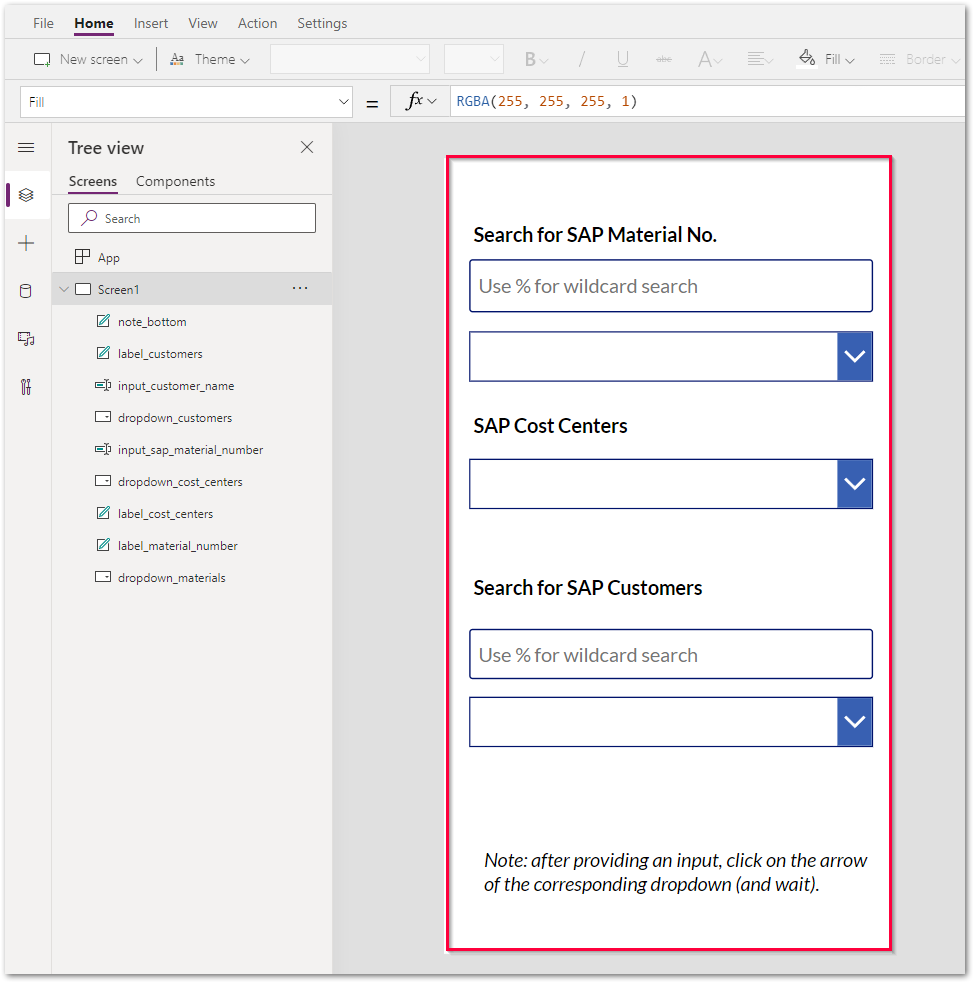
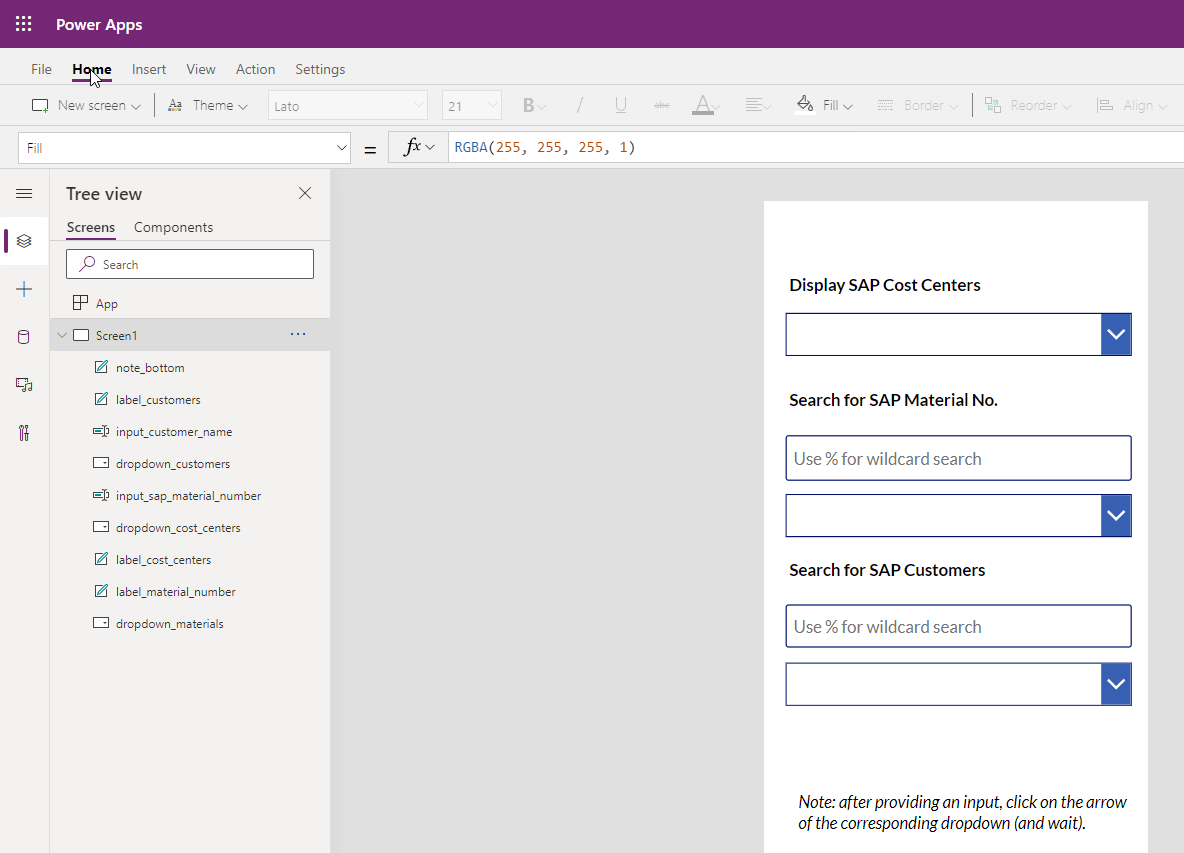
Power Apps article yunIO (probably final) review CT

diff --git a/content/_yunio/populating-dropdown-boxes in-power-apps-with-sap-data.md b/content/_yunio/populating-dropdown-boxes in-power-apps-with-sap-data.md
@@ -30,6 +30,8 @@ image
 Set the input parameter NAME1 (Customer's Name) to *Supplied by caller*.
 Select all fields in the table *CUSTOMER_T* for the output.<br>
 image
+{: .box-note }
+**Note:**  In PowerApps every data source is limited to 500 items. Therefore, it is recommended to pre-filter requests to a manageable amount of data and a row limit is set in this example. 
 2. Download the service definition (![download-file](/img/contents/yunio/download.png) icon) of all 3 services.<br>
 ![yunio-Services-Function-Download](/img/contents/yunio/yunio-run-services-function-download.png){:class="img-responsive" width="800px"}
 
@@ -57,12 +59,12 @@ After a connector is successfully tested, it can be used as a data source in Pow
 3. For the first and the last dropdown field add additional Text input boxes (input_sap_material_number and input_customers) for search/filter values. <br> 
 ![yunio-powerapps-model-driven-app](/img/contents/yunio/yunio_powerapps_modeldriven_app.png){:class="img-responsive"} 
 4. Add the previously created yunIO custom connectors containing the MAKT service, the CSKT service and the CustomerGet service. <br>
-![yunio-powerapps-add-datasource](/img/contents/yunio/yunio_powerapps_datasource_readmakt.png){:class="img-responsive" width="800px"} 
+![yunio-powerapps-add-datasources](/img/contents/yunio/C:\Source\kb.theobald-software.github.io\img\contents\yunio\yunio_powerapps_yunio_datasources.png){:class="img-responsive" width="800px"} 
 5. Customize the fields for populating the dropdown boxes with SAP values, see the examples below. 
 
 #### Example 1: Populating a Dropdown Box with SAP Table Data without a Search Filter
 
-The first example queries SAP table data for table CSKT (Cost Center Texts). The dropdown box is populated without any filtering.
+The first example queries SAP table data for table CSKT (Cost Center Texts). The dropdown box is populated without any search filtering.
 1. Use the following code in the *OnSelect* box of the dropdown control in the advanced settings: 
 ````
 ClearCollect(SAPData,yunIO_1.ReadCSKT());
@@ -70,14 +72,18 @@ ClearCollect(SAPData,yunIO_1.ReadCSKT());
 With *ClearCollect* a collection with a name of your choice (here *SAPData*) is filled with data from the external data source.
 The results are displayed when unfolding the dropdown box.    
 2. Use the *Concatenate* function in field Items to concatenate and display more than one table column in the dropdown box. 
-Under Value *Result* should be selectable, thats the result of the SAP table query stored in the collection variable *SAPData*.
+In the *Value* box *Result* is displayed, thats the result of the SAP table query stored in the collection variable *SAPData*.
 In this example the fields KOSTL (cost center) and LTEXT (cost center description) are concatenated and displayed, separated by a space. Other column separators are possible.
 ````
 Concatenate(SAPData.KOSTL," ",SAPData.LTEXT)
 ```
+![yunio-powerapps-display-cost-centers](/img/contents/yunio/C:\Source\kb.theobald-software.github.io\img\contents\yunio\yunio_powerapps_display_costcenters.png){:class="img-responsive" width="800px"} 
+
+{: .box-tip }
+**Tip:** You can display a quick preview in the Power Apps studio by clicking Alt and the dropdown box.  
 
 #### Example 2: Populating a Dropdown Box with SAP Table Data using a Search Filter
-The first example queries SAP table data for table MAKT (Material Decriptions). 
+The second example queries SAP table data for table MAKT (Material Decriptions). 
 The search field uses a Where Clause to filter the SAP table. 
 
 1. Use the following code in the *OnSelect* box of the dropdown control in the advanced settings:
@@ -87,14 +93,17 @@ ClearCollect(SAPResult,yunIO.MAKTService({whereClause:Concatenate("SPRAS = 'EN' 
 With *ClearCollect* a collection with a name of your choice (here *SAPResult*) is filled with data from the external data source.
 The Where Clause points to the input field *input_sap_material_number* (configured as Text).    
 2. Use the *Concatenate* function in field Items to concatenate and display more than one table column in the dropdown box. 
-Under Value *Result* should be selectable, thats the result of the SAP table query stored in the collection variable *SAPResult*.
+In the *Value* box *Result* is displayed, thats the result of the SAP table query stored in the collection variable *SAPResult*.
 In this example the fields MATNR (material number) and MAKTX (material description are concatenated and displayed, separated by a space. Other column separators are possible.
 ```
 Concatenate(SAPResult.MATNR," ",SAPResult.MAKTX)  
 ```
+![yunio-powerapps-search-materials](/img/contents/yunio/C:\Source\kb.theobald-software.github.io\img\contents\yunio\yunio_powerapps_search_materials.png){:class="img-responsive" width="800px"} 
+
+**Tip:** You can also use the OnChange field of the text input box for the ClearCollect statement. this has the advantage that the Dropdown Box is populated immediately when the search text is entered. 
 
 #### Example 3: Populating a Dropdown Box with SAP Data returned from a Function Module Call
-The third example calls the SAP function SD_RFC_CUSTOMER_GET using an input parameter to display the table output in the dropdown box. The input parameter is passed to 
+The third example calls the SAP function module SD_RFC_CUSTOMER_GET using an input parameter to display the table output (table CUSTOMER_T) in the dropdown box. The input parameter is passed to 
 the function by a separate text box. In this example the text box enables searching for a customer name (field NAME1).
 1. Use the following code in the *OnSelect* box of the dropdown control in the advanced settings:
 ```
@@ -103,11 +112,12 @@ ClearCollect(CustomerGetResult,yunIO_2.postCustomerGet({NAME1:input_customer_nam
 With *ClearCollect* a collection with a name of your choice (her *CustomerGetResult*) is filled with data from the external data source.
 The input parameter NAME1 points to the text input field *input_customer_name*. There is a reference to the output table CUSTOMER_T at the end of the statement, which allows to select the output fields of that table later on.  
 2. Use the *Concatenate* function in field Items to concatenate and display more then one table column in the dropdown box. 
-Under Value *Result* should be selectable, thats the result of the SAP function call stored in the collection variable *CustomerGetResult*.
+In the *Value* box *Result* is displayed, thats the result of the SAP function call stored in the collection variable *CustomerGetResult*.
 In this example fields NAME1 (customer name) and KUNNR (customer number) are concatenated and displayed, separated wby a space. Other column separators are possible.
 ````
 Concatenate(CustomerGetResult.NAME1," ",CustomerGetResult.KUNNR)
 ```
+![yunio-powerapps-search-customers](/img/contents/yunio/C:\Source\kb.theobald-software.github.io\img\contents\yunio\yunio_powerapps_search_customers.png){:class="img-responsive" width="800px"} 
 
 ******
 
